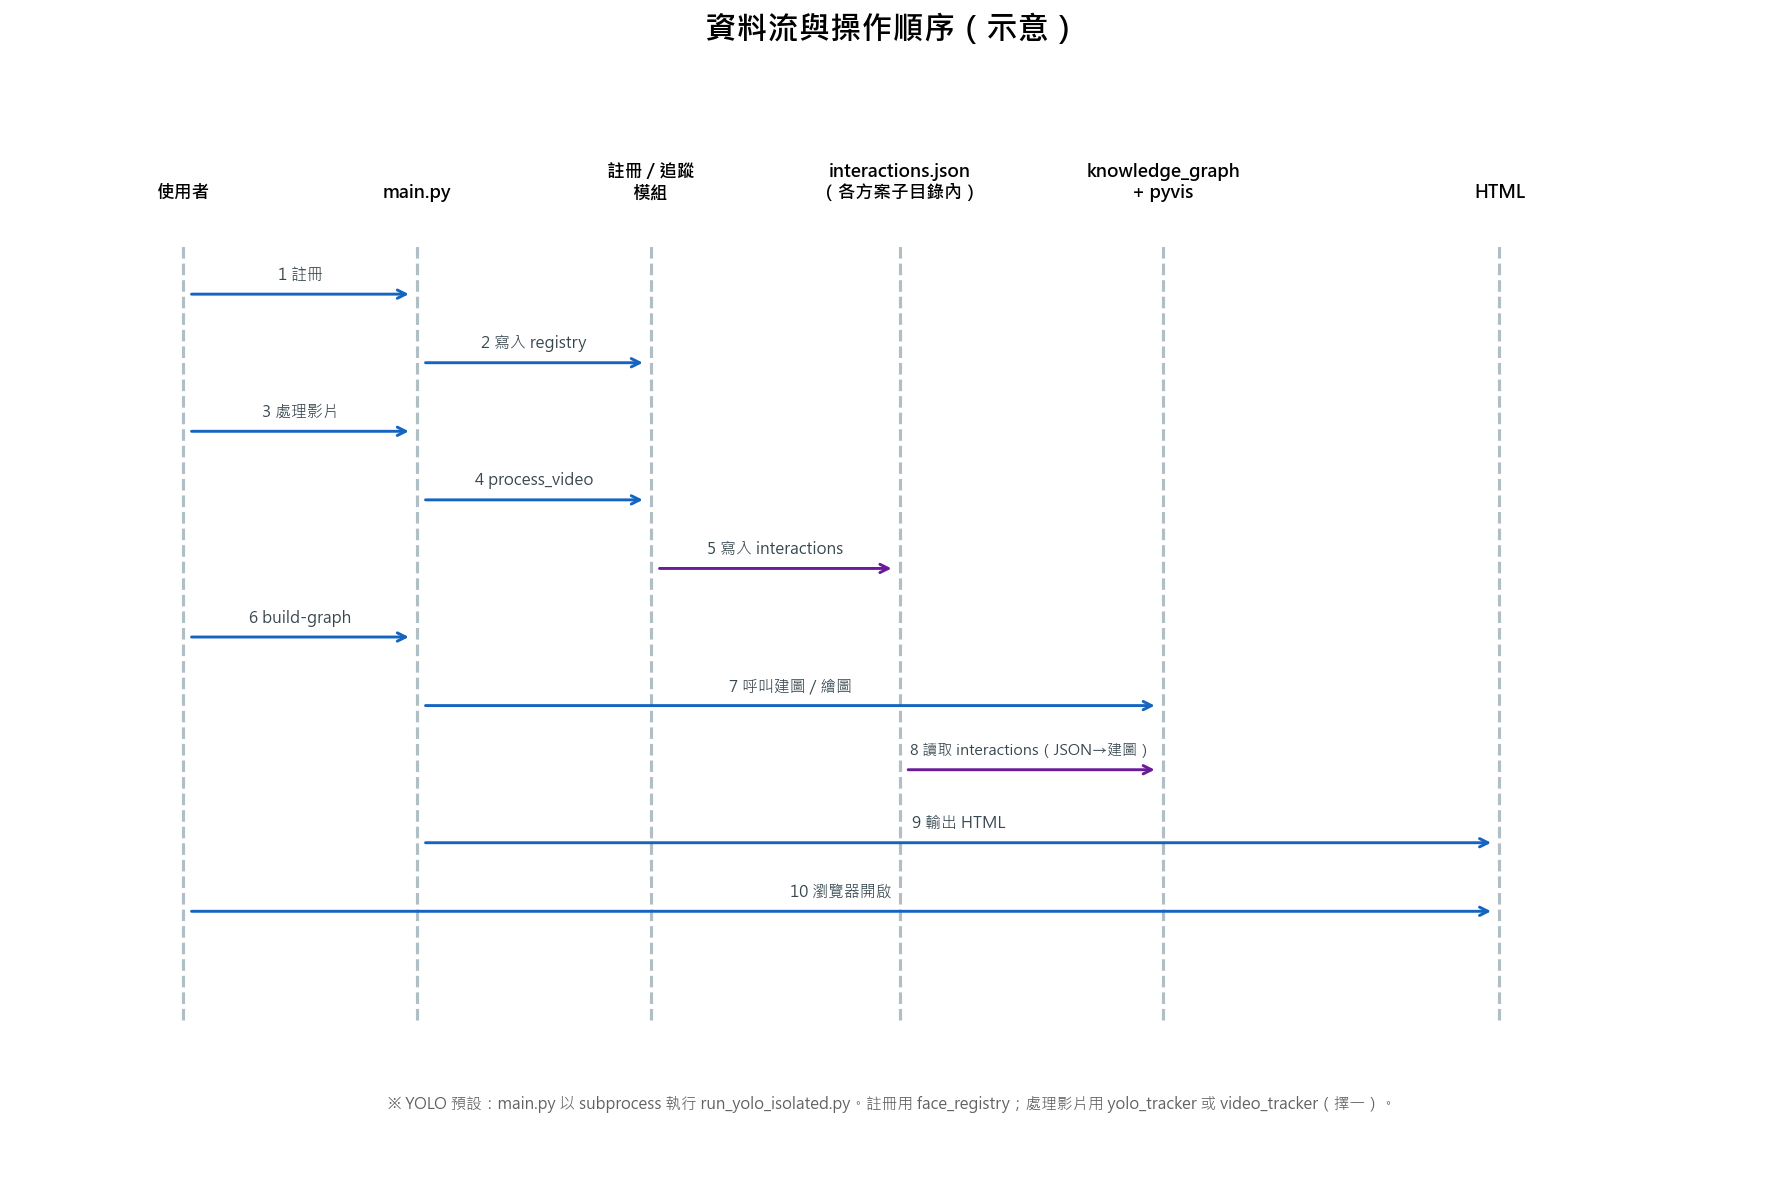
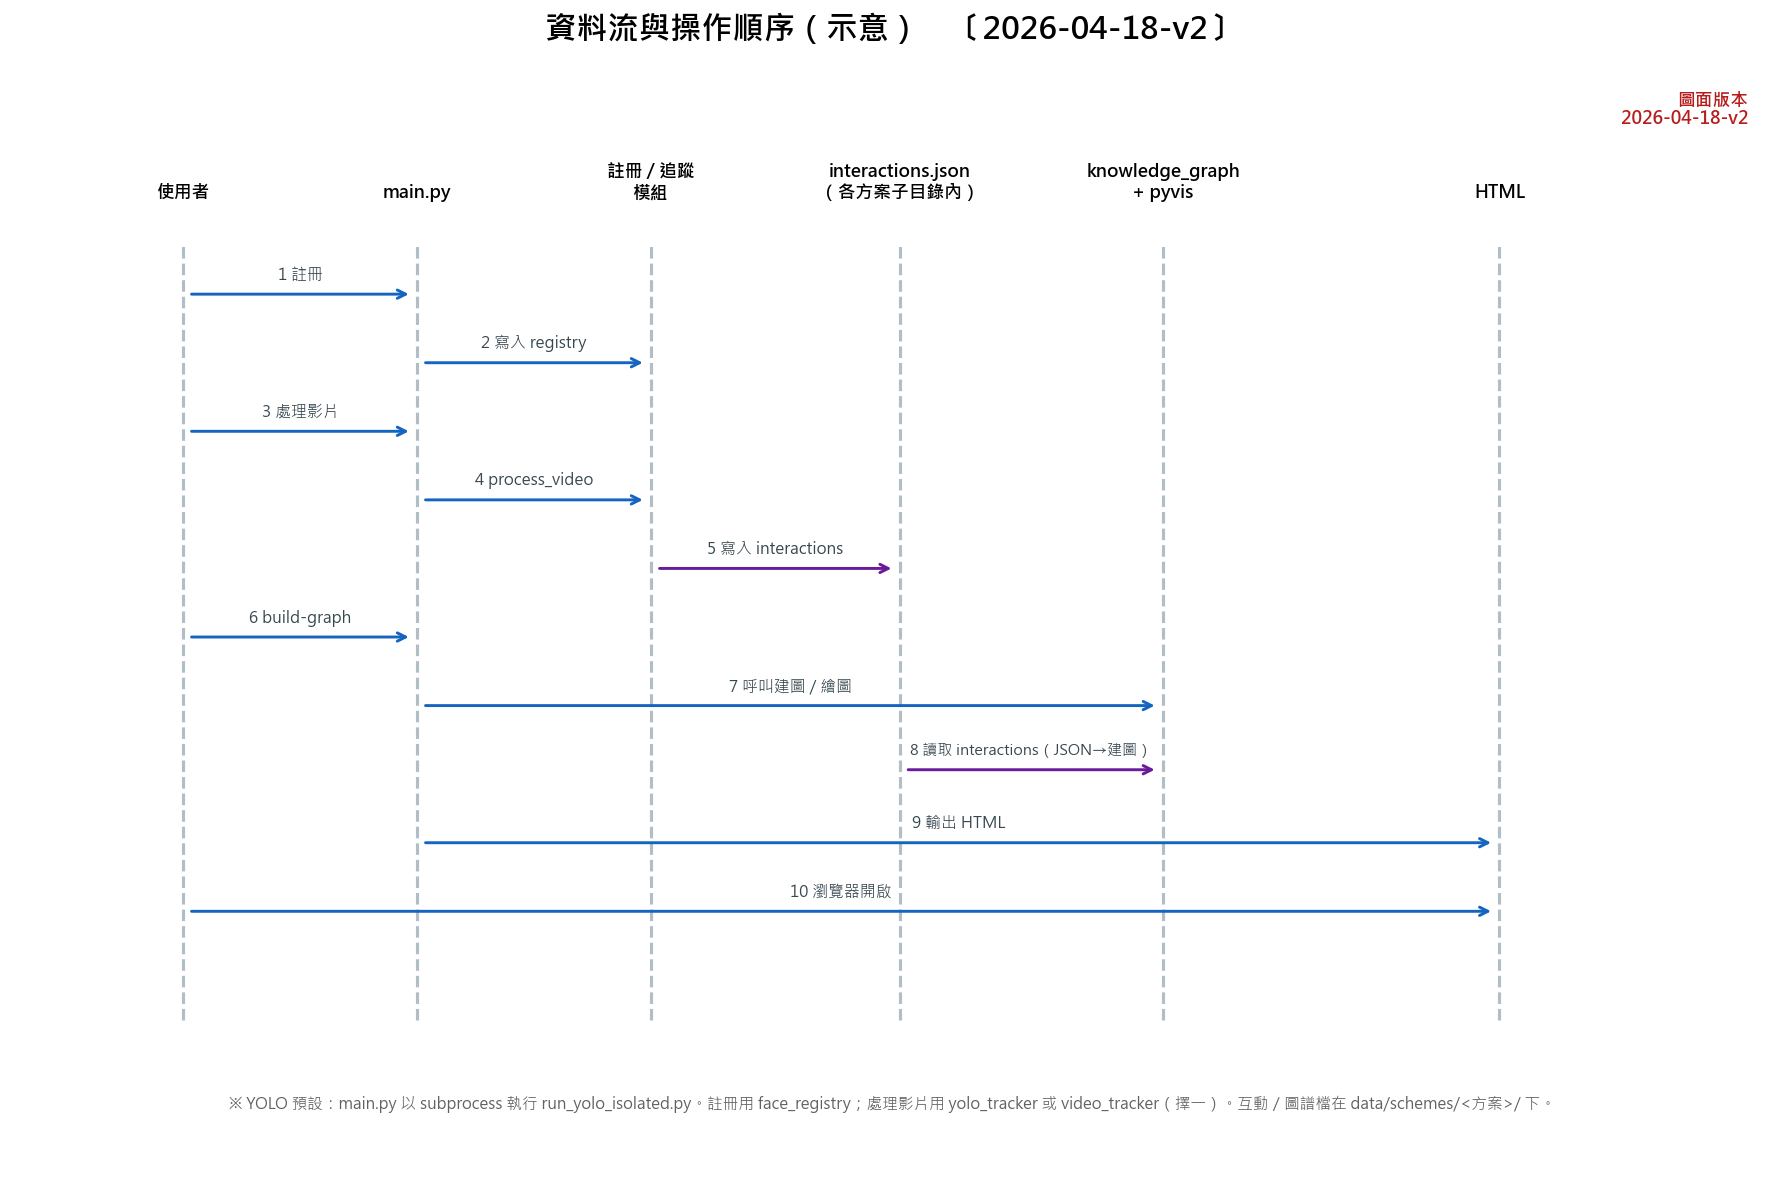
docs(figures): 架構圖改為方案目錄路徑並標註圖面版本
Made-with: Cursor

Changed region(s): [[0.1541, 0.9062, 0.8319, 0.9375], [0.3081, 0.0, 0.6779, 0.0312], [0.9244, 0.0625, 0.986, 0.125]]

diff --git a/docs/figures/render_architecture_png.py b/docs/figures/render_architecture_png.py
@@ -14,6 +14,9 @@ import matplotlib.pyplot as plt
 
 HERE = pathlib.Path(__file__).resolve().parent
 
+# 印在圖角，方便確認已重新輸出（與 Word 內嵌快取無關）。
+FIGURE_VERSION = "2026-04-18-v2"
+
 for fn in ("Microsoft JhengHei", "Microsoft YaHei", "SimHei", "PingFang TC"):
     try:
         plt.rcParams["font.sans-serif"] = [fn]
@@ -96,7 +99,7 @@ def draw_architecture():
     ax.set_ylim(0, fig_h)
     ax.axis("off")
     ax.set_title(
-        "child_tracker_kg · 技術架構總覽（區塊圖）",
+        f"child_tracker_kg · 技術架構總覽（區塊圖）　〔{FIGURE_VERSION}〕",
         fontsize=14,
         fontweight="bold",
         pad=10,
@@ -278,19 +281,37 @@ def draw_architecture():
         (LM + 0.4, yr),
         2.5,
         0.88,
-        "knowledge_graph\nNetworkX → knowledge_graph.json\n（目錄 data/graph）",
+        "knowledge_graph\nNetworkX → knowledge_graph.json\n（data/schemes/<方案>/graph/）",
         "#FFFFFF",
         "#01579B",
         7.2,
     )
     _box(ax, (LM + 3.05, yr), 2.35, 0.88, "personality\n互動相對分位（proxy）", "#FFFFFF", "#01579B", 7.6)
-    _box(ax, (LM + 5.55, yr), W - 5.9, 0.88, "relationship_graph\npyvis → data/graph/*.html", "#FFFFFF", "#01579B", 7.4)
+    _box(
+        ax,
+        (LM + 5.55, yr),
+        W - 5.9,
+        0.88,
+        "relationship_graph\npyvis → …/graph/*.html\n（同上方案目錄）",
+        "#FFFFFF",
+        "#01579B",
+        7.0,
+    )
 
     # ⑦ 視覺化
     y_hi_vz, y_lo_vz = zone(y_lo_gr - BAND_SEP, 1.28, "視覺化（靜態 HTML，瀏覽器離線開啟）", "#FFECB3", "#F57C00")
     _arrow_down(ax, FLOW_X, y_lo_gr - 0.05, y_hi_vz + 0.02, "#6D6D6D", lw=1.0)
     yr = y_lo_vz + 0.22
-    _box(ax, (LM + 0.4, yr), 2.65, 0.74, "data/graph/\nrelationship_graph.html\nvis-network", "#FFFFFF", "#E65100", 7.8)
+    _box(
+        ax,
+        (LM + 0.4, yr),
+        2.65,
+        0.74,
+        "…/graph/\nrelationship_graph.html\nvis-network",
+        "#FFFFFF",
+        "#E65100",
+        7.8,
+    )
     _box(ax, (LM + 3.2, yr), 3.2, 0.74, "Chart.js（注入）\n節點 hover 互動時間軸", "#FFFFFF", "#E65100", 7.9)
     _box(ax, (LM + 6.55, yr), W - 6.9, 0.74, "無後端伺服器", "#FAFAFA", "#78909C", 9)
 
@@ -302,6 +323,17 @@ def draw_architecture():
         ha="center",
         fontsize=8,
         color="#616161",
+    )
+    ax.text(
+        LM + W - 0.05,
+        fig_h - 0.35,
+        f"圖面版本\n{FIGURE_VERSION}",
+        ha="right",
+        va="top",
+        fontsize=8.5,
+        color="#B71C1C",
+        fontweight="bold",
+        linespacing=1.05,
     )
 
     out = HERE / "architecture_overview.png"
@@ -317,7 +349,7 @@ def draw_sequence():
     ax.set_ylim(0, 10)
     ax.axis("off")
     ax.set_title(
-        "資料流與操作順序（示意）",
+        f"資料流與操作順序（示意）　〔{FIGURE_VERSION}〕",
         fontsize=15,
         fontweight="bold",
         pad=12,
@@ -385,11 +417,23 @@ def draw_sequence():
     ax.text(
         6,
         0.55,
-        "※ YOLO 預設：main.py 以 subprocess 執行 run_yolo_isolated.py。註冊用 face_registry；處理影片用 yolo_tracker 或 video_tracker（擇一）。",
+        "※ YOLO 預設：main.py 以 subprocess 執行 run_yolo_isolated.py。註冊用 face_registry；"
+        "處理影片用 yolo_tracker 或 video_tracker（擇一）。互動／圖譜檔在 data/schemes/<方案>/ 下。",
         ha="center",
         fontsize=7.5,
         style="italic",
         color="#616161",
+    )
+    ax.text(
+        11.85,
+        9.75,
+        f"圖面版本\n{FIGURE_VERSION}",
+        ha="right",
+        va="top",
+        fontsize=8.5,
+        color="#B71C1C",
+        fontweight="bold",
+        linespacing=1.05,
     )
 
     out = HERE / "dataflow_sequence.png"
